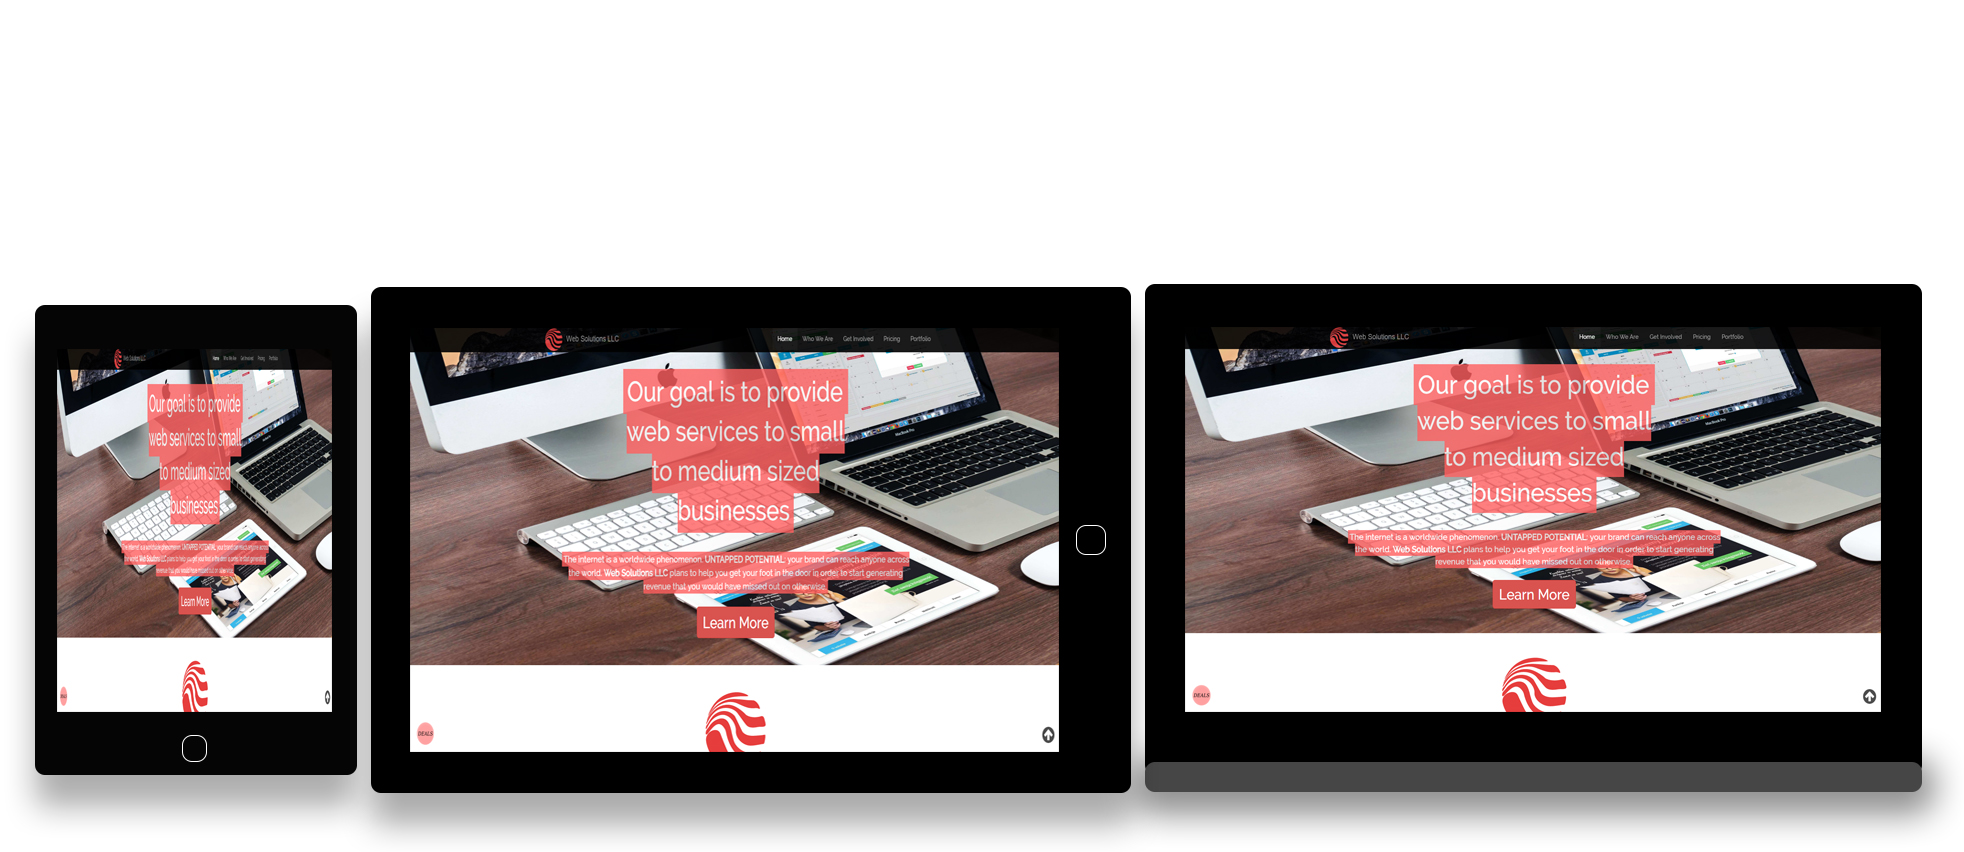
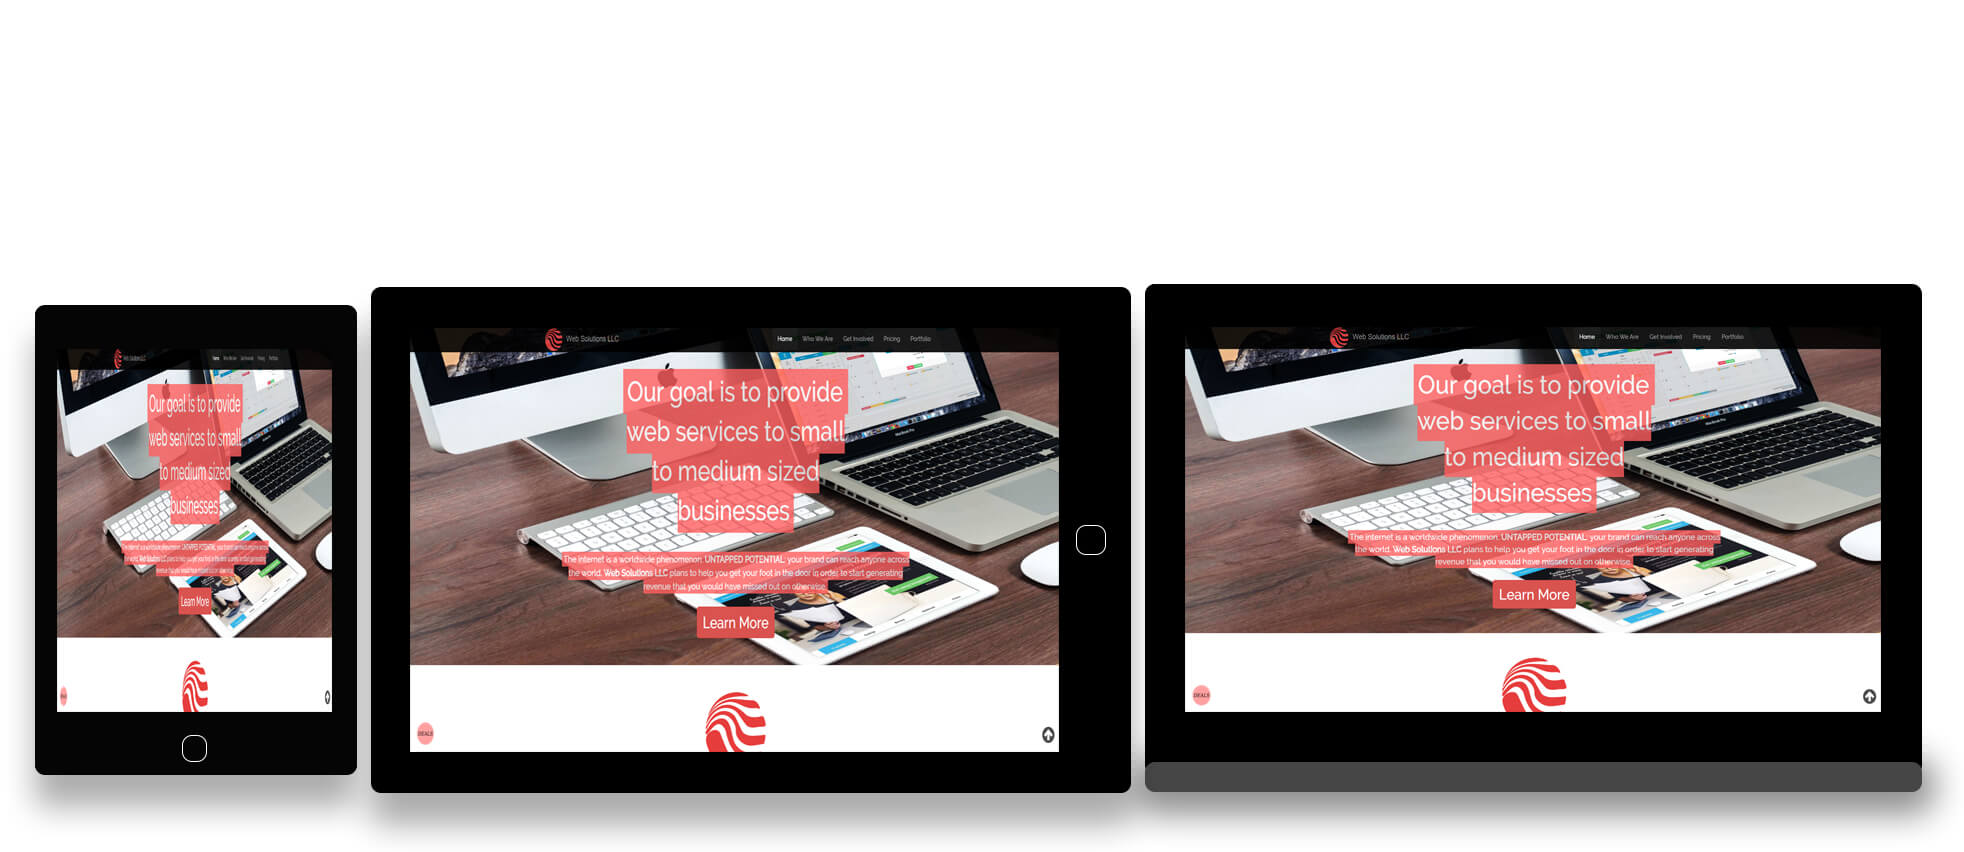
Pricing and picture update
Compressed images and updated prices.

diff --git a/index.html b/index.html
@@ -156,7 +156,7 @@
                     <i class="fa fa-simplybuilt fa-stack-1x fa-inverse"></i>
                   </span>
                   <h3>Standard</h3>
-                  <p>Our Basic Package starts at <strong>$50/hr</strong>. Standard packages involve a website with static content built for advertising with an about, what we do, pricing, and location section. Includes design for logos.</p>
+                  <p>Our Basic Package starts at <strong>$25/hr</strong>. Standard packages involve a website with static content built for advertising with an about, what we do, pricing, and location section. Includes design for logos.</p>
                 </div>
                 <div class="col-md-4">
                  <span class="fa-stack fa-5x">
